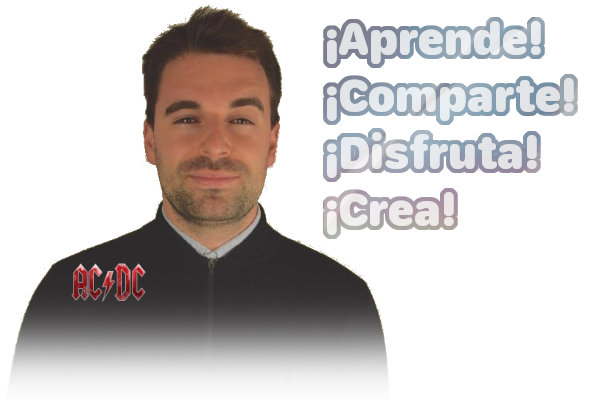
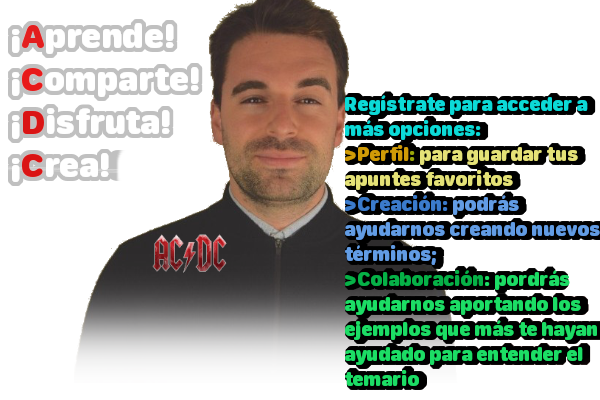
registro, autenticación, personalizacón de la navbar, simbolitos etc

diff --git a/config/routes.config.js b/config/routes.config.js
@@ -3,26 +3,26 @@ const router = express.Router();
 //const upload = multer({ dest: 'uploads/' })
 const upload = require("../config/multer.config")
 
-const{frontpage, user, definition, database, auth } = require("../controllers");
+const{ user, definition, database, auth } = require("../controllers");
 
-router.get("/create-definition", definition.formDefinition);
-router.post("/create-definition", upload.single('image'), definition.createDefinition)
-router.get("/list/:id", definition.exampleDefinition)
-router.post("/list/:id/delete", definition.delete)
+const secure = require('../middlewares/secure.mid');
+
+router.get("/create-definition", secure.isAuthenticated, definition.formDefinition);
+router.post("/create-definition", upload.single('image'), secure.isAuthenticated, definition.createDefinition)
+router.get("/list/:id",secure.isAuthenticated, definition.exampleDefinition)
+router.post("/list/:id/delete", secure.isAuthenticated, definition.delete)
 
 
 router.get("/main", database.listOfDatabase)
-router.get("/profile", user.profile)
-router.get("/list", definition.listOfDefinitions)
+router.get("/profile", secure.isAuthenticated, user.profile)
+router.get("/list", secure.isAuthenticated, definition.listOfDefinitions)
 
 router.get("/register", auth.register);
-router.post("/register", auth.doRegister);
+router.post("/register",auth.doRegister);
 
 
 router.get("/", auth.login);
 router.post("/", auth.doLogin);
-
-
 
 
 

diff --git a/config/session.config.js b/config/session.config.js
@@ -11,7 +11,7 @@ const session = expressSession({
     cookie: {
         secure: process.env.SESSION_SECURE === 'true',
         httpOnly: true,
-    
+        maxAge: 1000 * 60 * 60 * 24 * 14
     }
 });
 
@@ -21,6 +21,7 @@ const loadUser = (req, res, next) => {
     User.findById(userId)
     .then(user => {
         req.user = user;
+        res.locals.currentUser = user;
         next();
     })
     .catch(error => next(error));

diff --git a/app.js b/app.js
@@ -35,6 +35,6 @@ app.use((error, req, res, next) => {
 });
 
 
-const port = 3001;
+const port = process.env.PORT || 3001;
 app.listen(port, () => console.log(`here we go!`))
 

diff --git a/middlewares/secure.mid.js b/middlewares/secure.mid.js
@@ -1,0 +1,7 @@
+module.exports.isAuthenticated = (req, res, next) =>{
+    if(req.user) {
+        next()
+    } else {
+        res.redirect("/")
+    }
+} 
